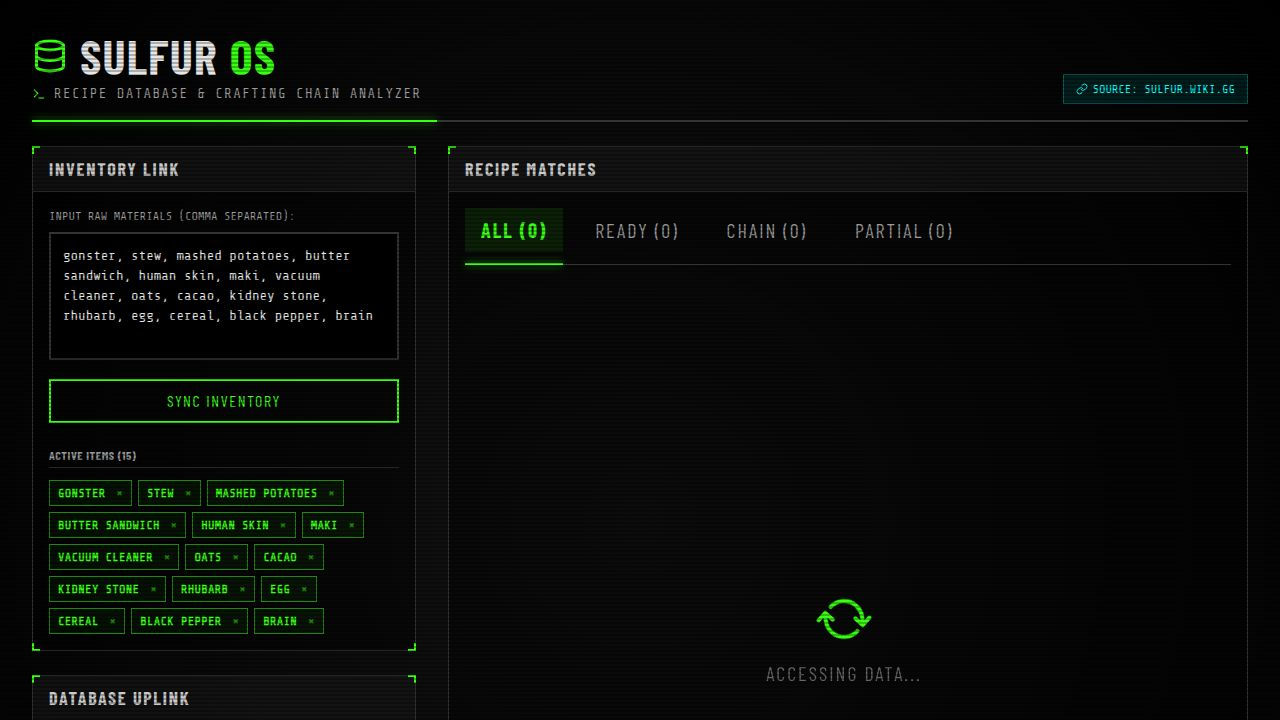
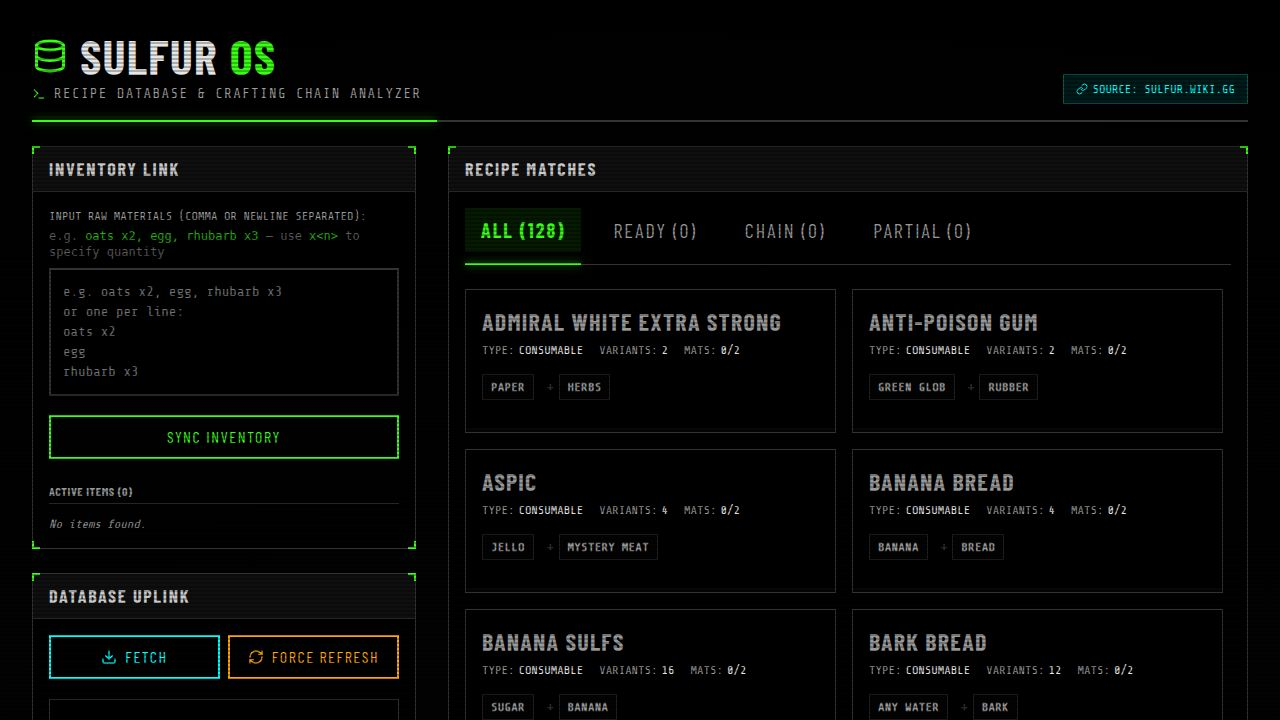
Make ingredient matching case and accent insensitive
Adds normalization for ingredient names to support variations in casing and accents, and persists user inventory to localStorage.

Replit-Commit-Author: Agent
Replit-Commit-Session-Id: 5f1e94f6-8de9-4ef4-a86f-4a349745d6da
Replit-Commit-Checkpoint-Type: full_checkpoint
Replit-Commit-Event-Id: 10367af8-999a-4638-98f6-bdcf27e7ca86
Replit-Commit-Screenshot-Url: https://storage.googleapis.com/screenshot-production-us-central1/09cd7722-62a9-40c2-82eb-fe18c1e2cbb6/5f1e94f6-8de9-4ef4-a86f-4a349745d6da/wSsrG6M
Replit-Helium-Checkpoint-Created: true

diff --git a/artifacts/sulfur-recipe-finder/src/pages/Home.tsx b/artifacts/sulfur-recipe-finder/src/pages/Home.tsx
@@ -8,10 +8,19 @@ import { motion, AnimatePresence } from "framer-motion";
 import clsx from "clsx";
 import { format } from "date-fns";
 
-const DEFAULT_INGS = "gonster, stew, mashed potatoes, butter sandwich, human skin, maki, vacuum cleaner, oats, cacao, kidney stone, rhubarb, egg, cereal, black pepper, brain";
+const DEFAULT_INGS = "";
+const STORAGE_KEY = "sulfur-inventory";
+
+function normalizeText(s: string): string {
+  return s
+    .normalize("NFD").replace(/[\u0300-\u036f]/g, "")
+    .replace(/[øØ]/g, "o").replace(/[åÅ]/g, "a").replace(/[æÆ]/g, "ae")
+    .replace(/[œŒ]/g, "oe").replace(/[ðÐ]/g, "d").replace(/[þÞ]/g, "th")
+    .replace(/[ß]/g, "ss");
+}
 
 function baseName(ing: string) {
-  return ing.toLowerCase().replace(/\s*x\d+\s*$/i, "").trim();
+  return normalizeText(ing.toLowerCase().replace(/\s*x\d+\s*$/i, "").trim());
 }
 
 function requiredQty(ing: string): number {
@@ -102,7 +111,7 @@ function scoreRecipe(
 }
 
 export default function Home() {
-  const [inputText, setInputText] = useState(DEFAULT_INGS);
+  const [inputText, setInputText] = useState(() => localStorage.getItem(STORAGE_KEY) ?? DEFAULT_INGS);
   const [activeIngs, setActiveIngs] = useState<Map<string, number>>(new Map());
   const [filter, setFilter] = useState<'all' | 'ready' | 'chain' | 'partial'>('all');
   const [logs, setLogs] = useState<string[]>(["[SYS] OS Boot sequence complete...", "[SYS] Waiting for database sync..."]);
@@ -111,11 +120,22 @@ export default function Home() {
   const { mutate: refreshRecipes, isPending: isRefreshing } = useRefreshRecipesData();
 
   const recipes = data?.recipes || [];
-  const catMems = data?.categoryMembers ?? {};
+  const catMems = useMemo(() => {
+    const raw = data?.categoryMembers ?? {};
+    const result: Record<string, string[]> = {};
+    for (const [label, members] of Object.entries(raw)) {
+      result[normalizeText(label)] = (members as string[]).map(m => normalizeText(m));
+    }
+    return result;
+  }, [data?.categoryMembers]);
   
   useEffect(() => {
-    handleSetIngredients(DEFAULT_INGS);
+    handleSetIngredients(inputText);
   }, []);
+
+  useEffect(() => {
+    localStorage.setItem(STORAGE_KEY, inputText);
+  }, [inputText]);
 
   useEffect(() => {
     if (isLoading) {
@@ -147,7 +167,7 @@ export default function Home() {
       if (!trimmed) return;
       const qtyMatch = trimmed.match(/\s*x(\d+)\s*$/i);
       const qty = qtyMatch ? parseInt(qtyMatch[1], 10) : 1;
-      const name = trimmed.replace(/\s*x\d+\s*$/i, "").trim();
+      const name = normalizeText(trimmed.replace(/\s*x\d+\s*$/i, "").trim());
       if (name) map.set(name, Math.max(qty, map.get(name) ?? 0));
     });
     setActiveIngs(map);

diff --git a/artifacts/sulfur-recipe-finder/src/components/recipe-card.tsx b/artifacts/sulfur-recipe-finder/src/components/recipe-card.tsx
@@ -1,8 +1,16 @@
 import { Zap, Check, AlertTriangle, Flame } from "lucide-react";
 import clsx from "clsx";
 
+function normalizeText(s: string): string {
+  return s
+    .normalize("NFD").replace(/[\u0300-\u036f]/g, "")
+    .replace(/[øØ]/g, "o").replace(/[åÅ]/g, "a").replace(/[æÆ]/g, "ae")
+    .replace(/[œŒ]/g, "oe").replace(/[ðÐ]/g, "d").replace(/[þÞ]/g, "th")
+    .replace(/[ß]/g, "ss");
+}
+
 function baseName(ing: string) {
-  return ing.toLowerCase().replace(/\s*x\d+\s*$/i, "").trim();
+  return normalizeText(ing.toLowerCase().replace(/\s*x\d+\s*$/i, "").trim());
 }
 
 function requiredQty(ing: string): number {
